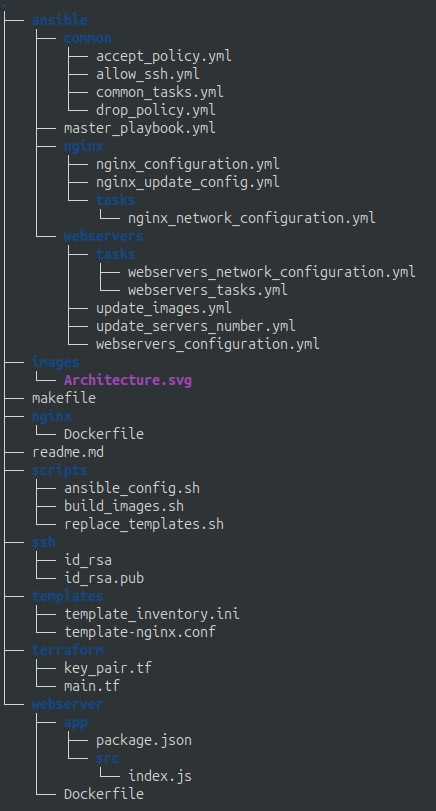
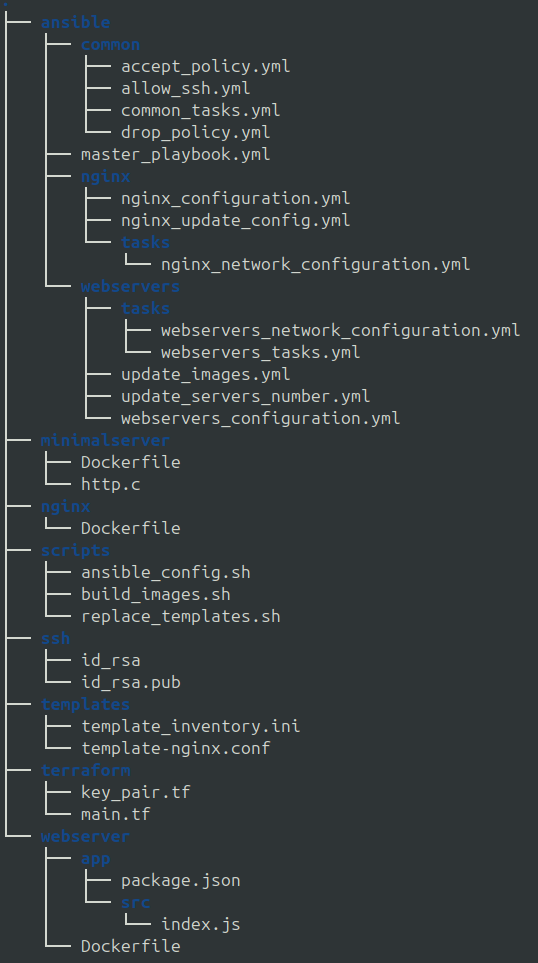
update file structure, improved C server

Changed region(s): [[0.0, 0.0, 0.9541, 1.0]]

diff --git a/TP5/minimalserver/http.c b/TP5/minimalserver/http.c
@@ -1,56 +1,79 @@
-#include <sys/socket.h>
 #include <netinet/in.h>
 #include <string.h>
 #include <unistd.h>
 #include <stdio.h>
-#include <pthread.h>
-#include <stdlib.h>
-#include <limits.h>
 
-typedef struct sockaddr_in SOCKADDR_IN;
-
-#define PORT 3000
 #define MAX_REQUEST_SIZE 2048
-#define NB_THREADS 10
+#define PORT 8080
 
-void *accept_connection(void *sock)
+int main()
 {
-    if (listen(*(int *)sock, 1) != 0)
+    int sock;
+    if ((sock = socket(AF_INET, SOCK_STREAM, 0)) == -1)
     {
-        printf("Error listening");
-        return NULL;
+        printf("Error creating socket\n");
+        return -1;
     }
-    SOCKADDR_IN client_address;
+
+    int opt = 1;
+    if (setsockopt(sock, SOL_SOCKET, SO_REUSEADDR, &opt, sizeof(opt)) < 0)
+    {
+        printf("Error setting socket options\n");
+        close(sock);
+        return -1;
+    }
+
+    struct sockaddr_in sin;
+    sin.sin_family = AF_INET;
+    sin.sin_port = htons(PORT);
+    sin.sin_addr.s_addr = INADDR_ANY;
+
+    if (bind(sock, (struct sockaddr *)&sin, sizeof(sin)) != 0)
+    {
+        printf("Error binding socket\n");
+        close(sock);
+        return -1;
+    }
+
+    if (listen(sock, 1) != 0)
+    {
+        printf("Error listening\n");
+        close(sock);
+        return -1;
+    }
+
+    struct sockaddr_in client_address;
     unsigned int client_address_len = sizeof(client_address);
     int client_fd;
     while (1)
     {
-        if ((client_fd = accept(*(int *)sock, (struct sockaddr *)&client_address, &client_address_len)) == -1)
+        if ((client_fd = accept(sock, (struct sockaddr *)&client_address, &client_address_len)) == -1)
         {
-            return NULL;
+            printf("Error accepting connection\n");
+            continue;
         }
+
         char buffer[MAX_REQUEST_SIZE];
         int size;
         if ((size = read(client_fd, buffer, MAX_REQUEST_SIZE)) != -1)
         {
-            printf("%.*s\n", size, buffer);
+            printf("%.*s", size, buffer);
             memset(buffer, 0, size);
         }
+
         char hostname[_SC_HOST_NAME_MAX + 1];
         gethostname(hostname, _SC_HOST_NAME_MAX + 1);
-        printf("\n%s", hostname);
 
-        char html_content[32] = "<p>";
+        char html_content[64] = "<p>";
         strcat(html_content, hostname);
         strcat(html_content, "</p>");
 
         char response[128] =
             "HTTP/1.1 200 OK\r\n"
-            "Content-Type: text/html\r\n"
-            "Set-Cookie: ok=value\r\n";
+            "Content-Type: text/html\r\n";
 
         int content_length = strlen(html_content);
-        char buf[5];
+        char buf[32];
         sprintf(buf, "%d", content_length);
 
         char content_length_str[32] = "Content-Length: ";
@@ -60,53 +83,10 @@ void *accept_connection(void *sock)
         strcat(response, content_length_str);
         strcat(response, html_content);
 
-        printf("%s\n\n", response);
+        printf("%s\n------------\n", response);
         write(client_fd, response, strlen(response));
         close(client_fd);
     }
-}
-
-int main(int argc, char **argv)
-{
-
-    int port;
-
-    if (argc > 1)
-    {
-        port = atoi(argv[1]);
-    }
-    else
-    {
-        port = PORT;
-    }
-
-    int sock = socket(AF_INET, SOCK_STREAM, 0);
-    if (sock == -1)
-    {
-        printf("Error creating socket");
-        exit(-1);
-    }
-    SOCKADDR_IN sin;
-    sin.sin_family = AF_INET;
-    sin.sin_port = htons(port);
-    sin.sin_addr.s_addr = INADDR_ANY;
-
-    if (bind(sock, (struct sockaddr *)&sin, sizeof(sin)) != 0)
-    {
-        printf("Error binding socket");
-        exit(-1);
-    }
-
-    pthread_t threads[NB_THREADS];
-    int i;
-    for (i = 0; i < NB_THREADS; i++)
-    {
-        pthread_create(&threads[i], NULL, accept_connection, &sock);
-        i++;
-    }
-    for (i = 0; i < NB_THREADS; i++)
-    {
-        pthread_join(threads[i], NULL);
-    }
     close(sock);
+    return 0;
 }
